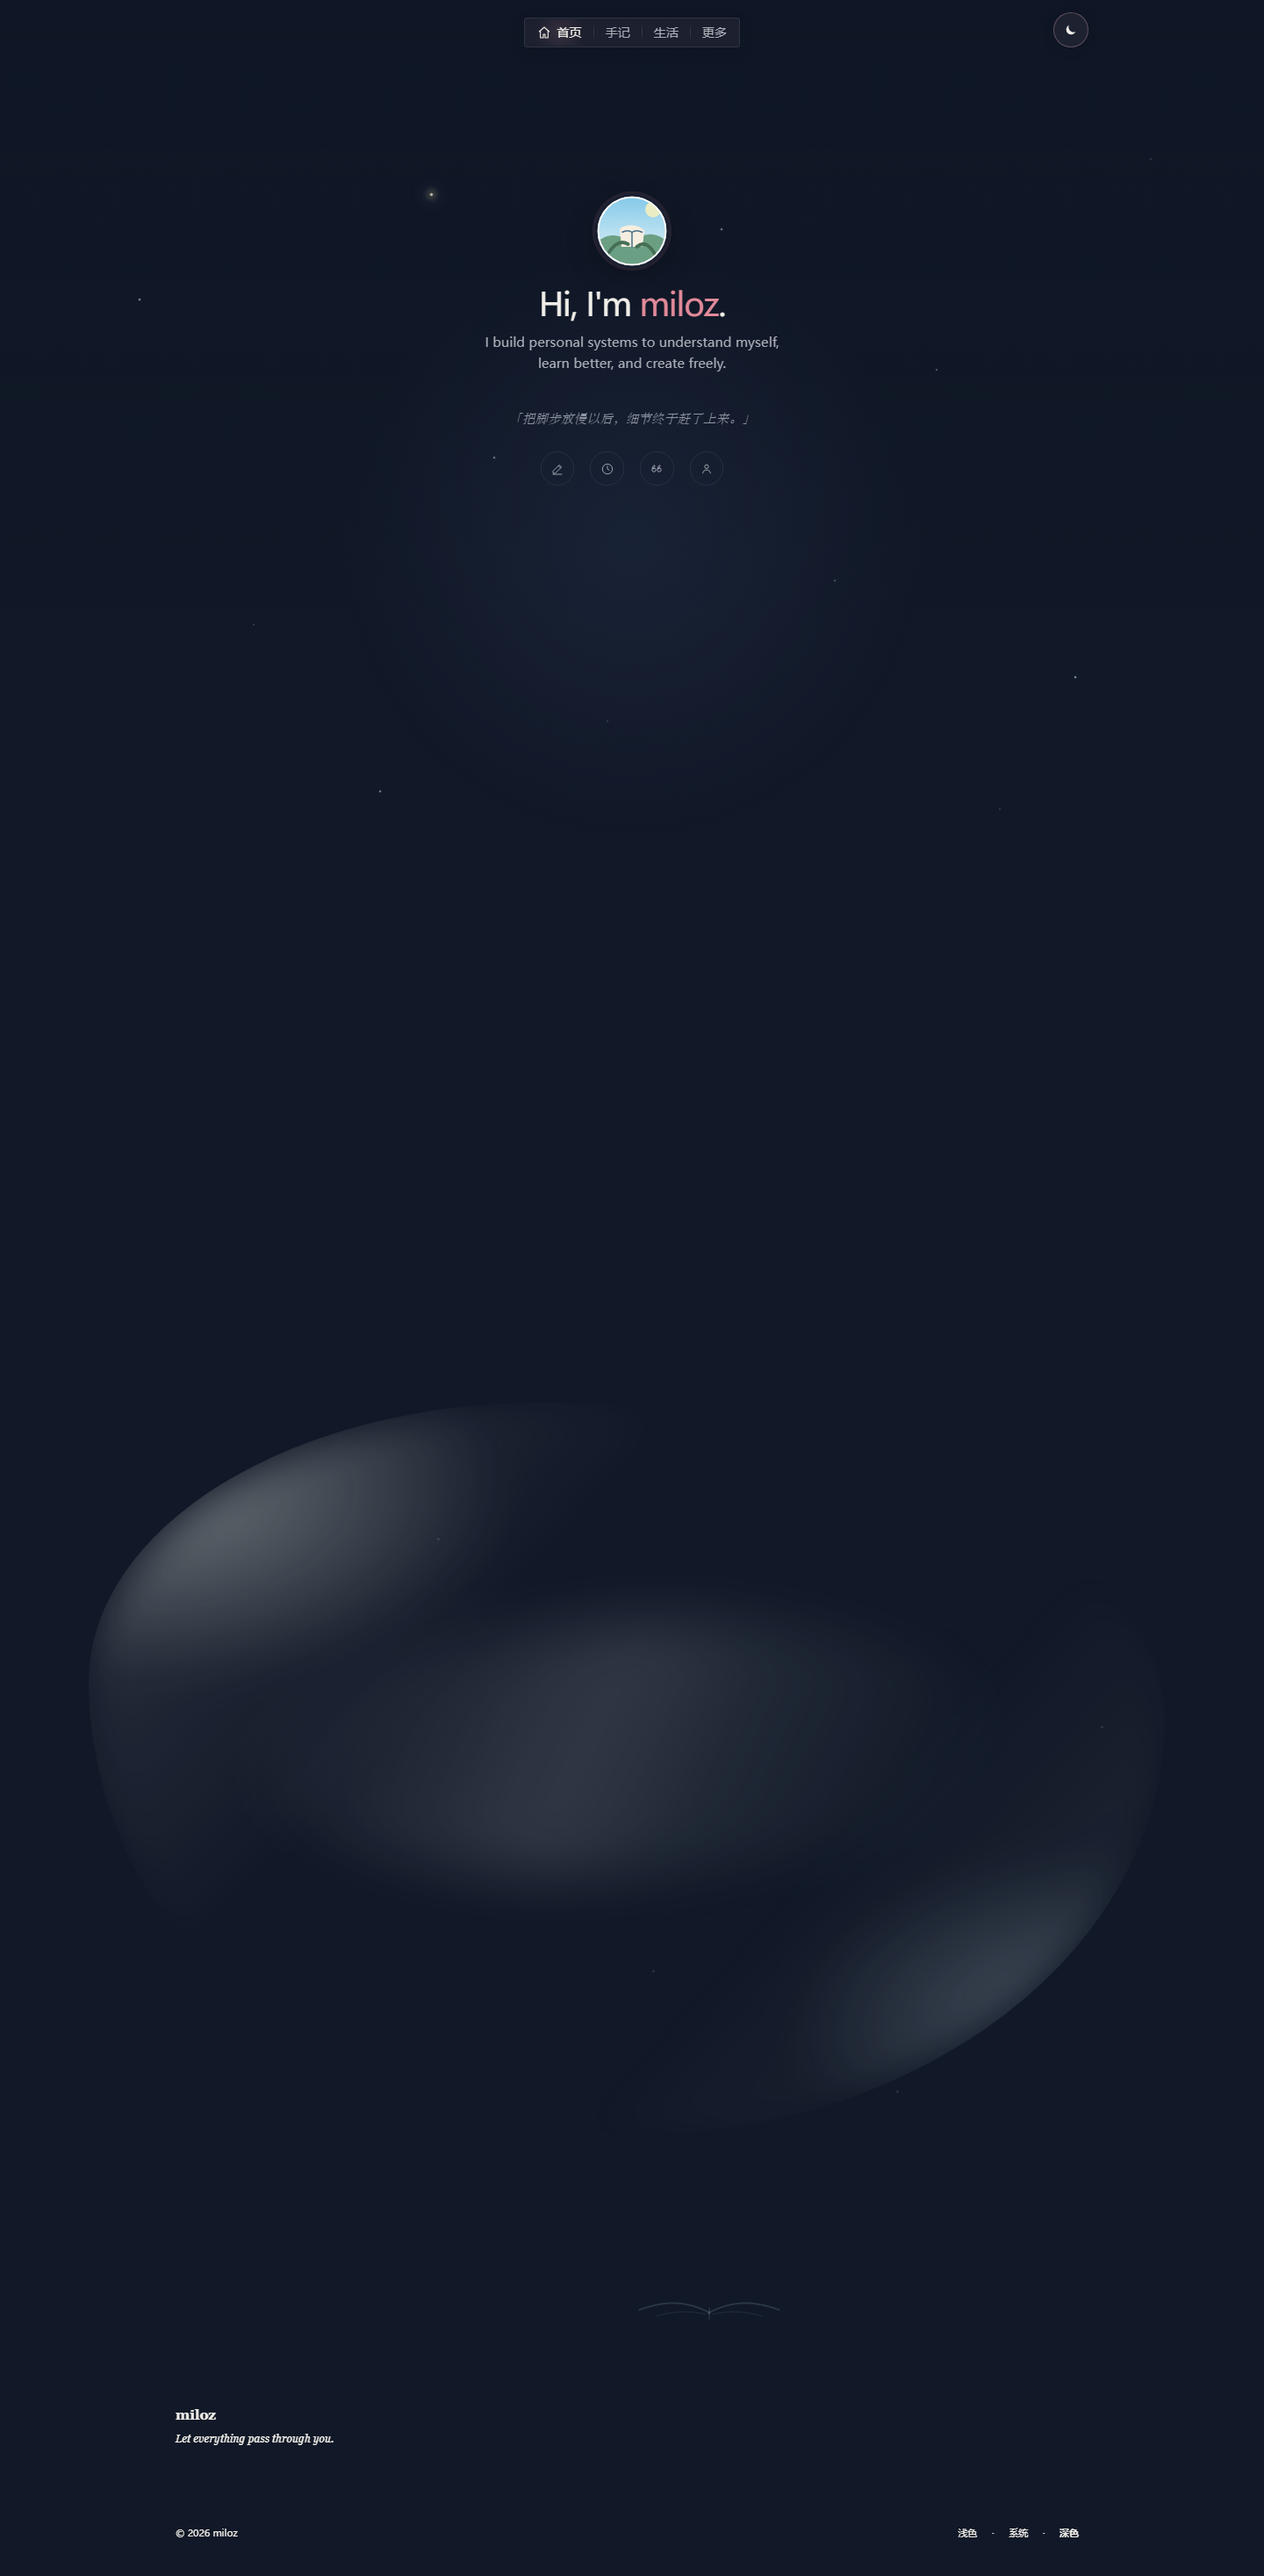
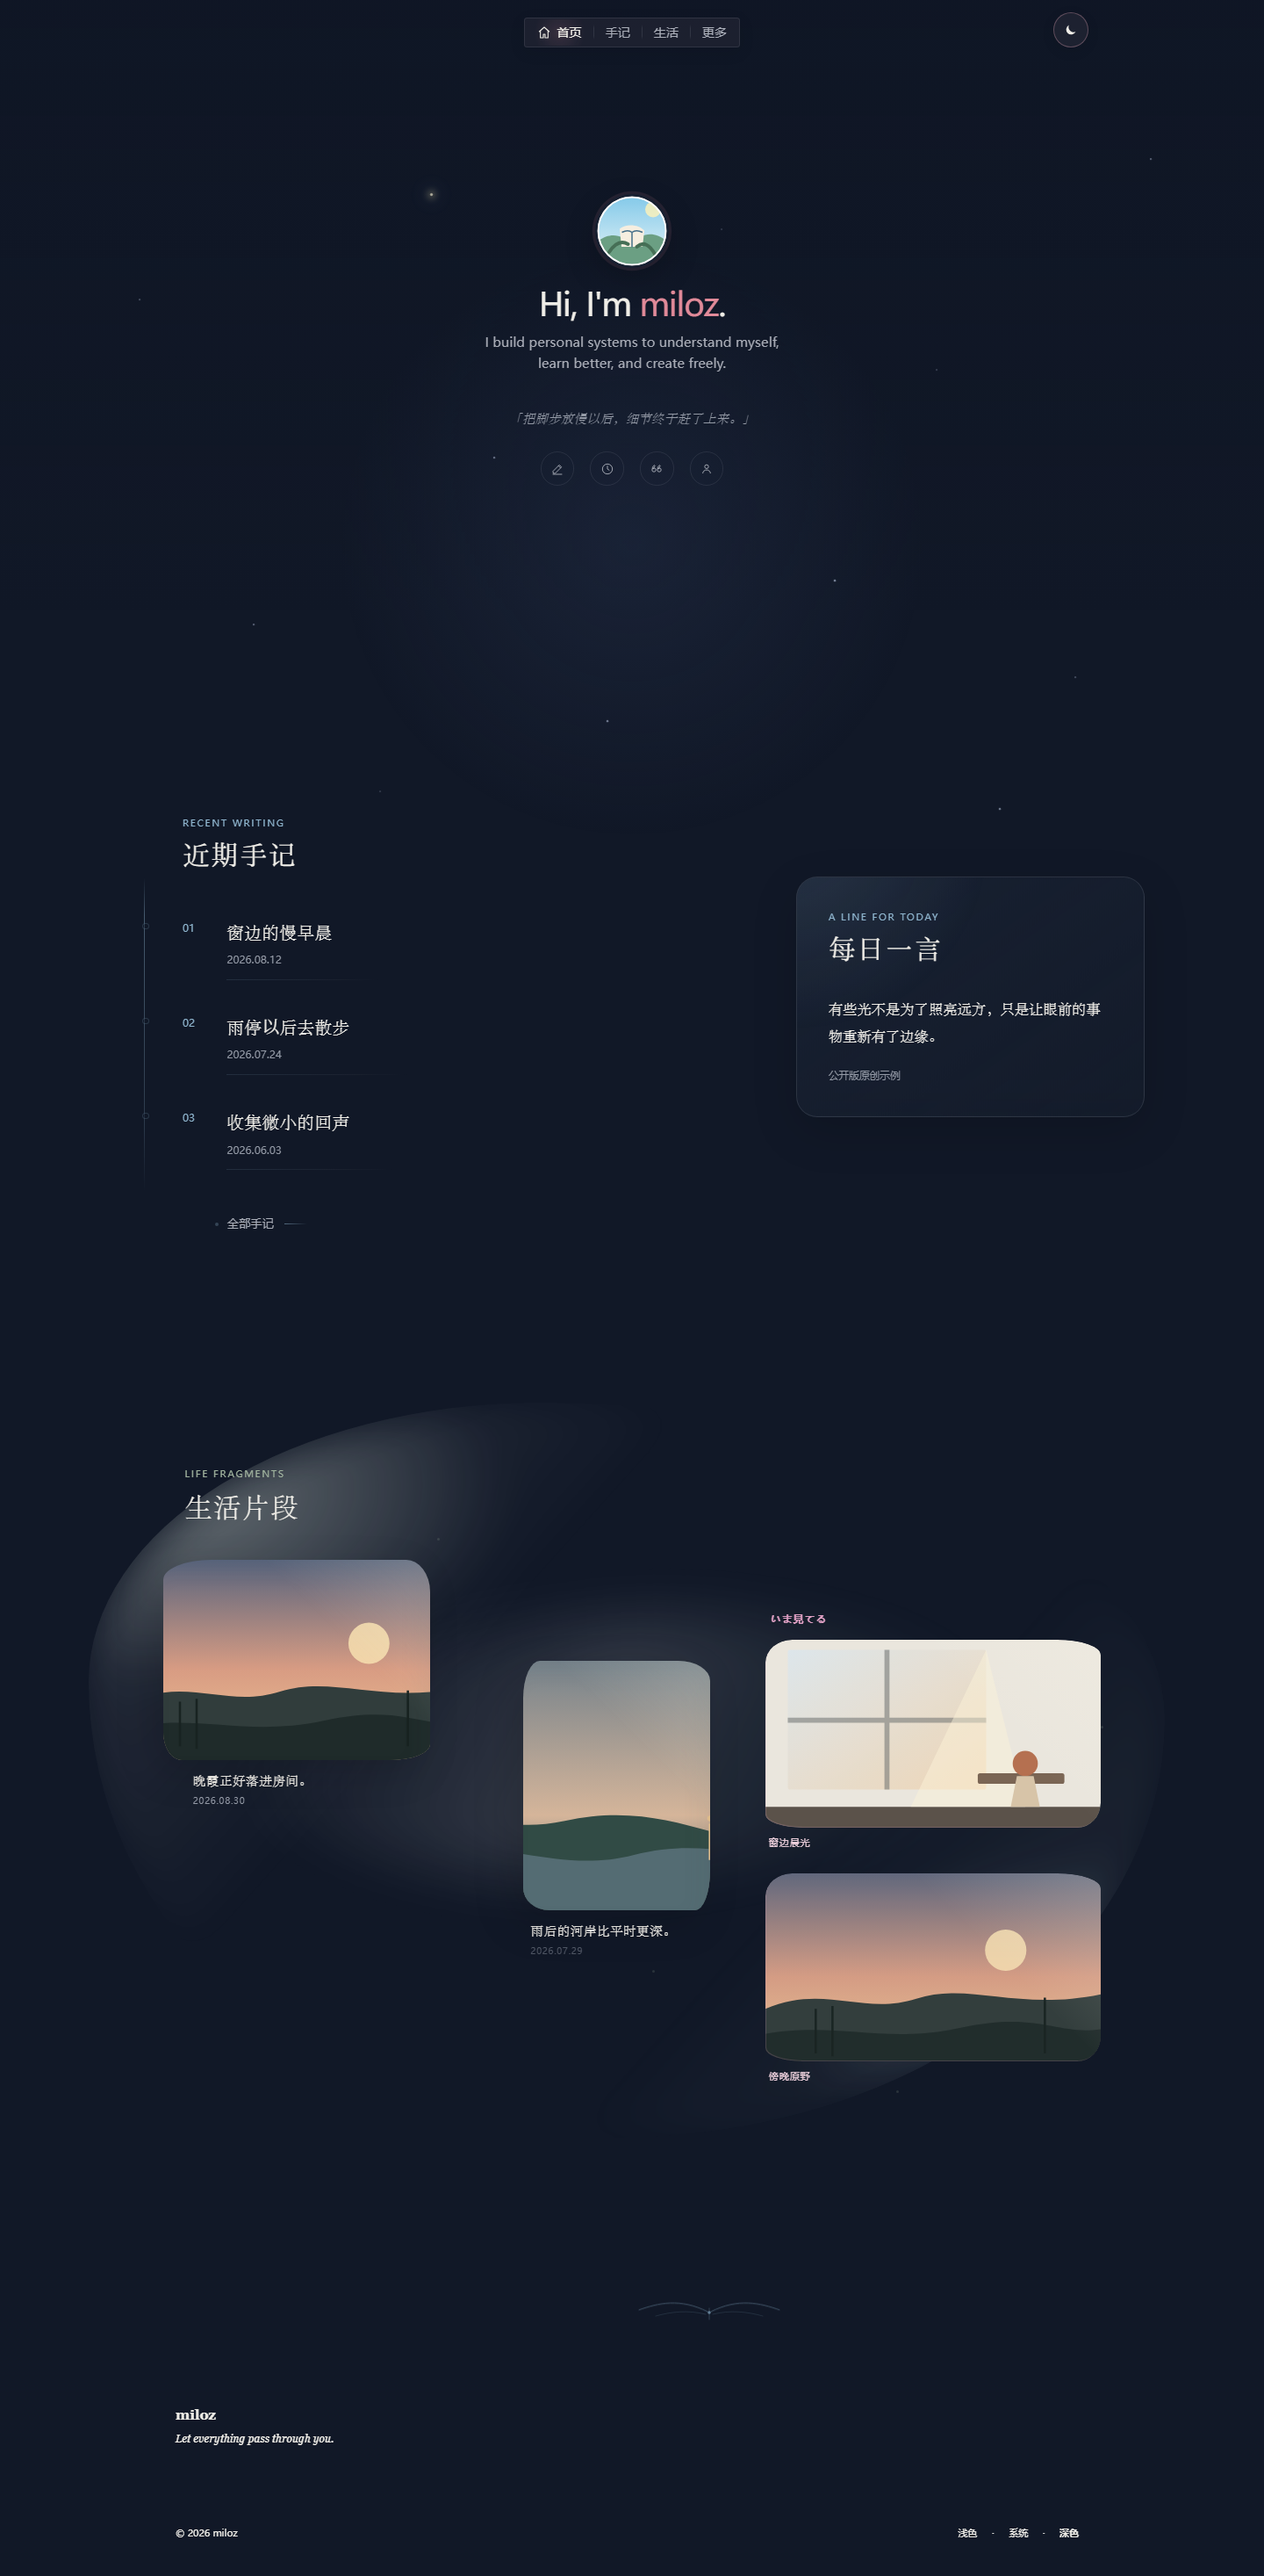
docs: refresh complete homepage screenshots

diff --git a/tests/e2e/screenshots.spec.ts b/tests/e2e/screenshots.spec.ts
@@ -1,6 +1,34 @@
 import { mkdirSync } from "node:fs";
 import { resolve } from "node:path";
-import { test } from "@playwright/test";
+import { expect, type Page, test } from "@playwright/test";
+
+async function prepareHomeForFullPageScreenshot(page: Page) {
+  const writing = page.locator("[data-writing-concept='sky-manuscript']");
+  const life = page.locator("[data-life-concept='natural-two-column']");
+  const ending = page.locator("[data-home-refined-v3-ending]");
+
+  await writing.scrollIntoViewIfNeeded();
+  await expect(writing).toHaveClass(/writing-is-entered/);
+  await life.scrollIntoViewIfNeeded();
+  await expect(life).toHaveClass(/life-is-entered/);
+  await ending.scrollIntoViewIfNeeded();
+  await page.waitForTimeout(1000);
+  await page.evaluate(async () => {
+    await document.fonts.ready;
+    await Promise.all(
+      Array.from(document.images, (image) => {
+        if (image.complete && image.naturalWidth > 0) return Promise.resolve();
+        return new Promise<void>((resolveImage) => {
+          image.addEventListener("load", () => resolveImage(), { once: true });
+          image.addEventListener("error", () => resolveImage(), { once: true });
+        });
+      }),
+    );
+    window.scrollTo(0, 0);
+  });
+  await expect.poll(() => page.evaluate(() => window.scrollY)).toBe(0);
+  await page.waitForTimeout(300);
+}
 
 test("生成公开 demo 截图", async ({ page }, testInfo) => {
   test.skip(testInfo.project.name !== "desktop", "截图只由桌面项目生成一次");
@@ -9,7 +37,7 @@ test("生成公开 demo 截图", async ({ page }, testInfo) => {
 
   await page.emulateMedia({ colorScheme: "light" });
   await page.goto("/");
-  await page.waitForTimeout(1000);
+  await prepareHomeForFullPageScreenshot(page);
   await page.screenshot({ path: resolve(directory, "home-light-desktop.png"), fullPage: true });
 
   for (const [path, name, ready] of [["/notes/", "notes-light-desktop.png", ".notes-compact-featured"], ["/life/", "life-light-desktop.png", ".life-v9-stream"], ["/says/", "says-light-desktop.png", ".confirmed-quote-masonry"], ["/about/", "about-light-desktop.png", ".confirmed-about-note"], ["/notes/quiet-morning/", "article-light-desktop.png", ".note-reading-paper"]] as const) {
@@ -22,7 +50,7 @@ test("生成公开 demo 截图", async ({ page }, testInfo) => {
   await page.goto("/");
 
   await page.getByRole("button", { name: /切换到夜间模式/ }).click();
-  await page.waitForTimeout(300);
+  await prepareHomeForFullPageScreenshot(page);
   await page.screenshot({ path: resolve(directory, "home-dark-desktop.png"), fullPage: true });
 
   await page.setViewportSize({ width: 390, height: 844 });
